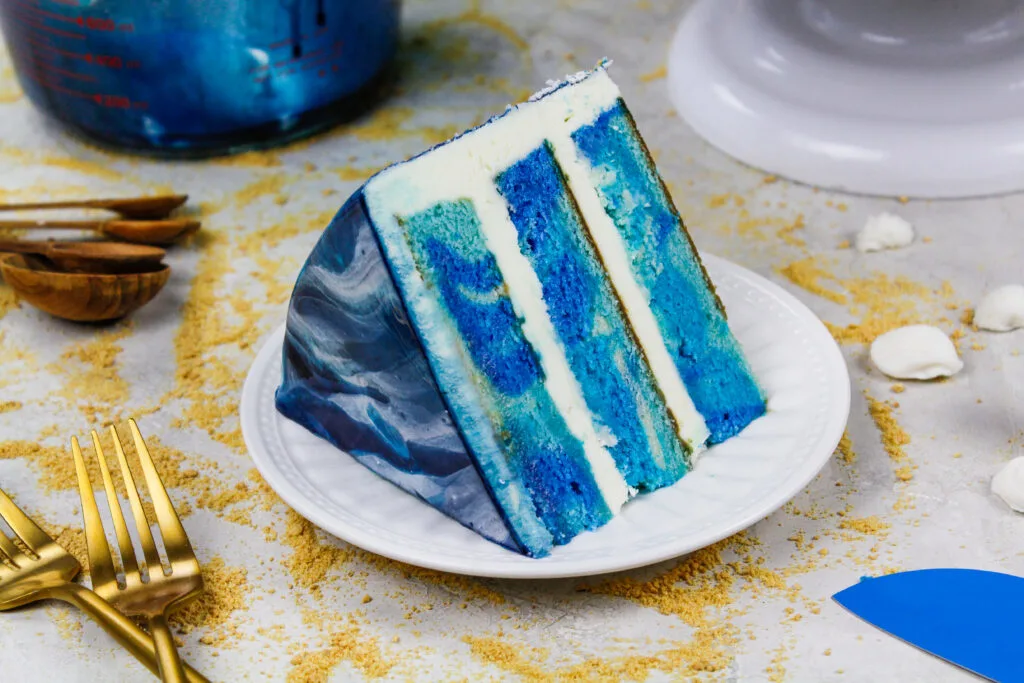
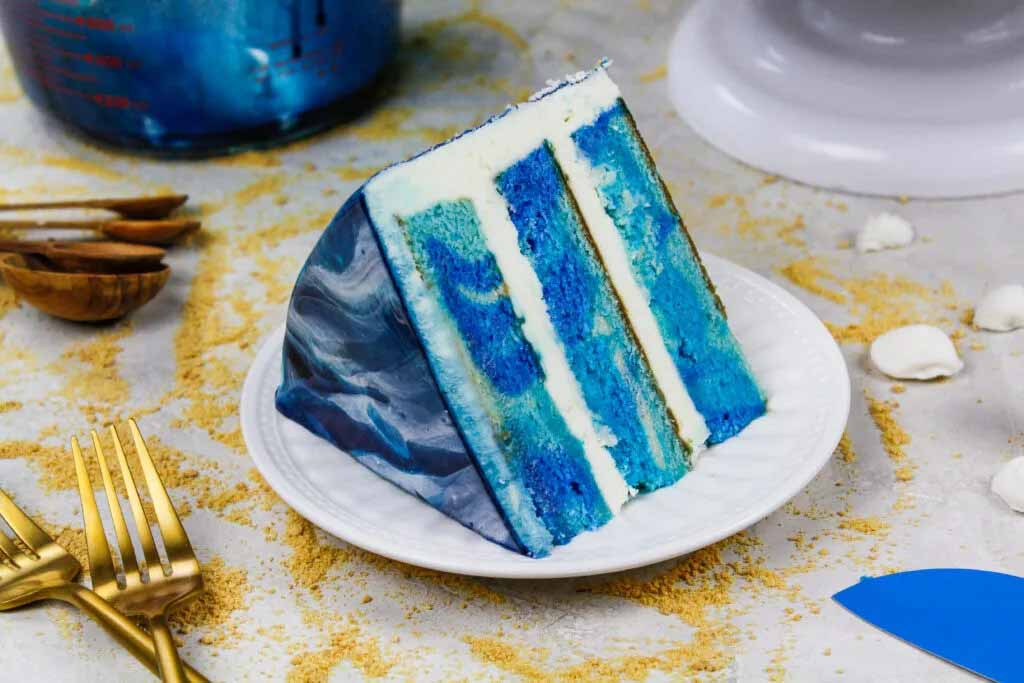
cambio en calidad de imagen para reducir peso y corrección archivo css

diff --git a/css/style.css b/css/style.css
@@ -82,7 +82,7 @@ img{border-radius: 5%;}
         max-width: 100%;
         height: auto;
      }
-
+ }
 .pie{
 
     height: 10em;
